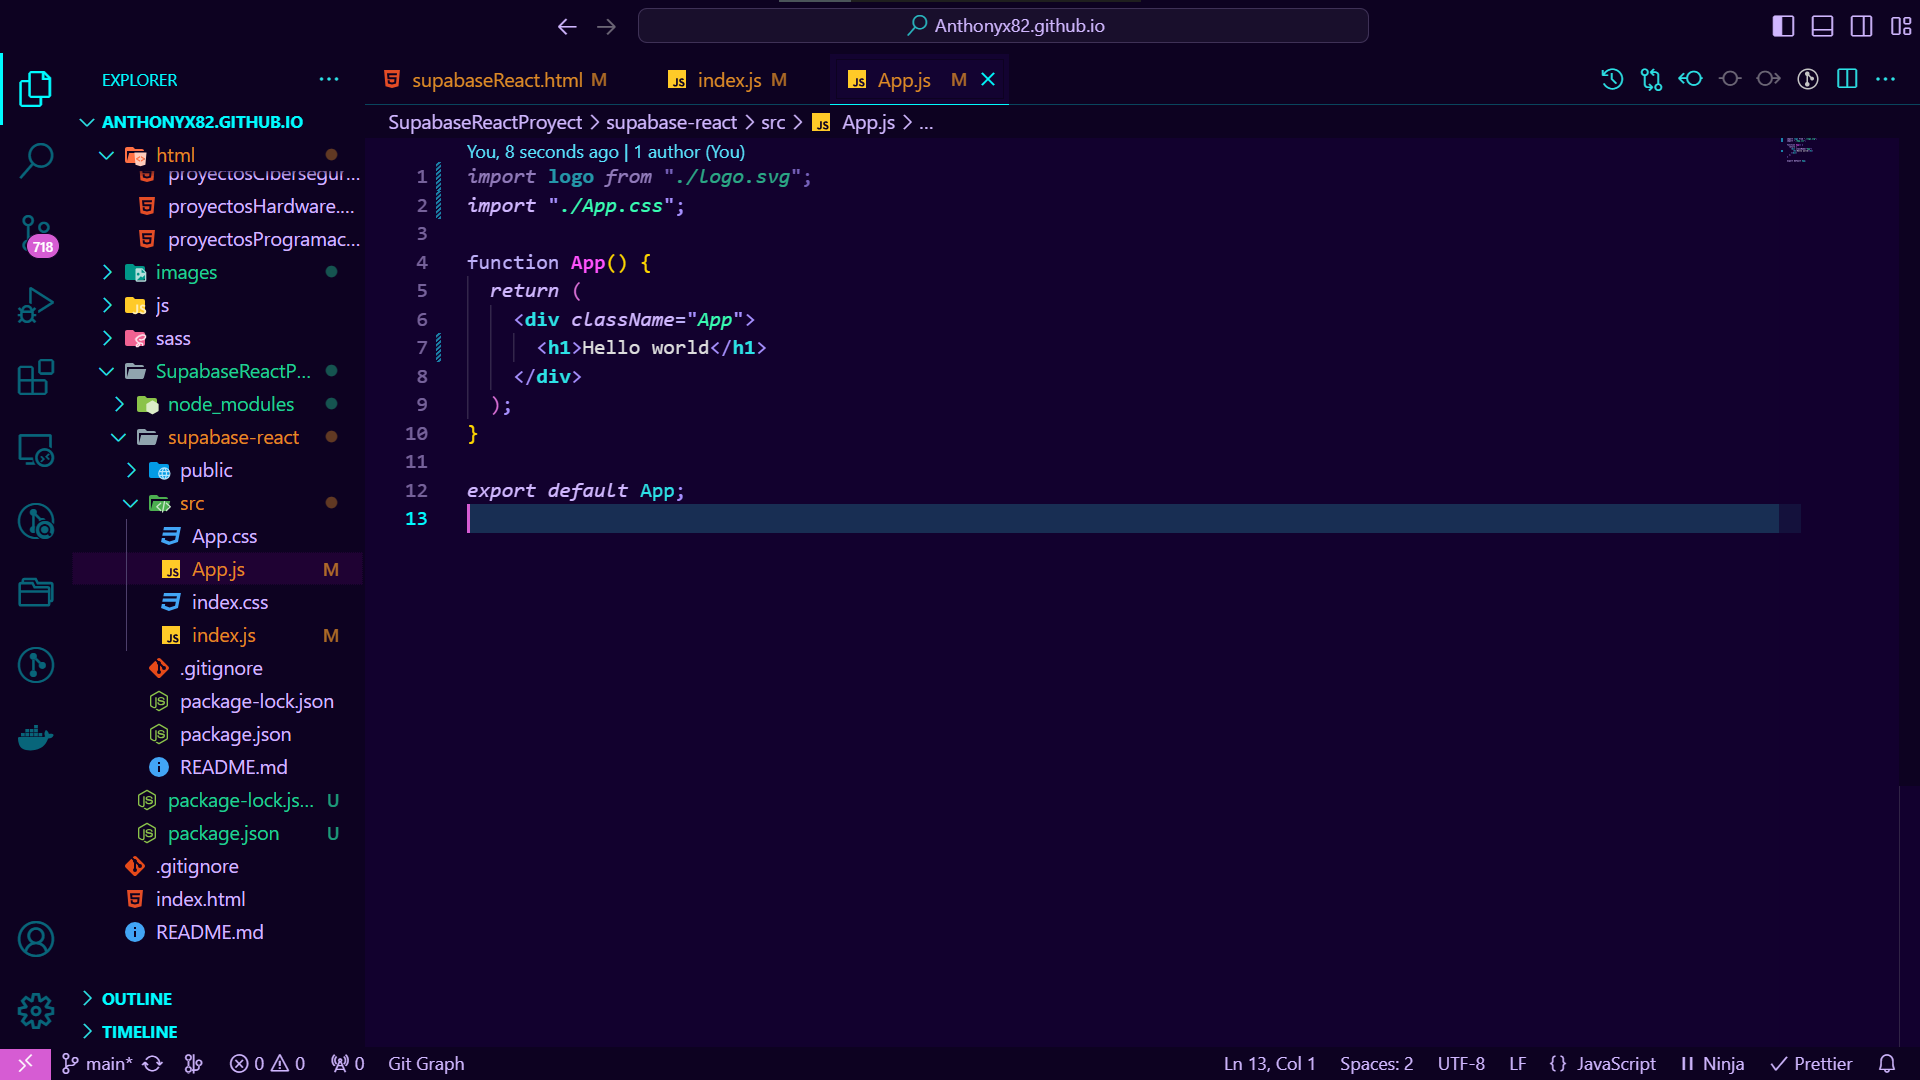
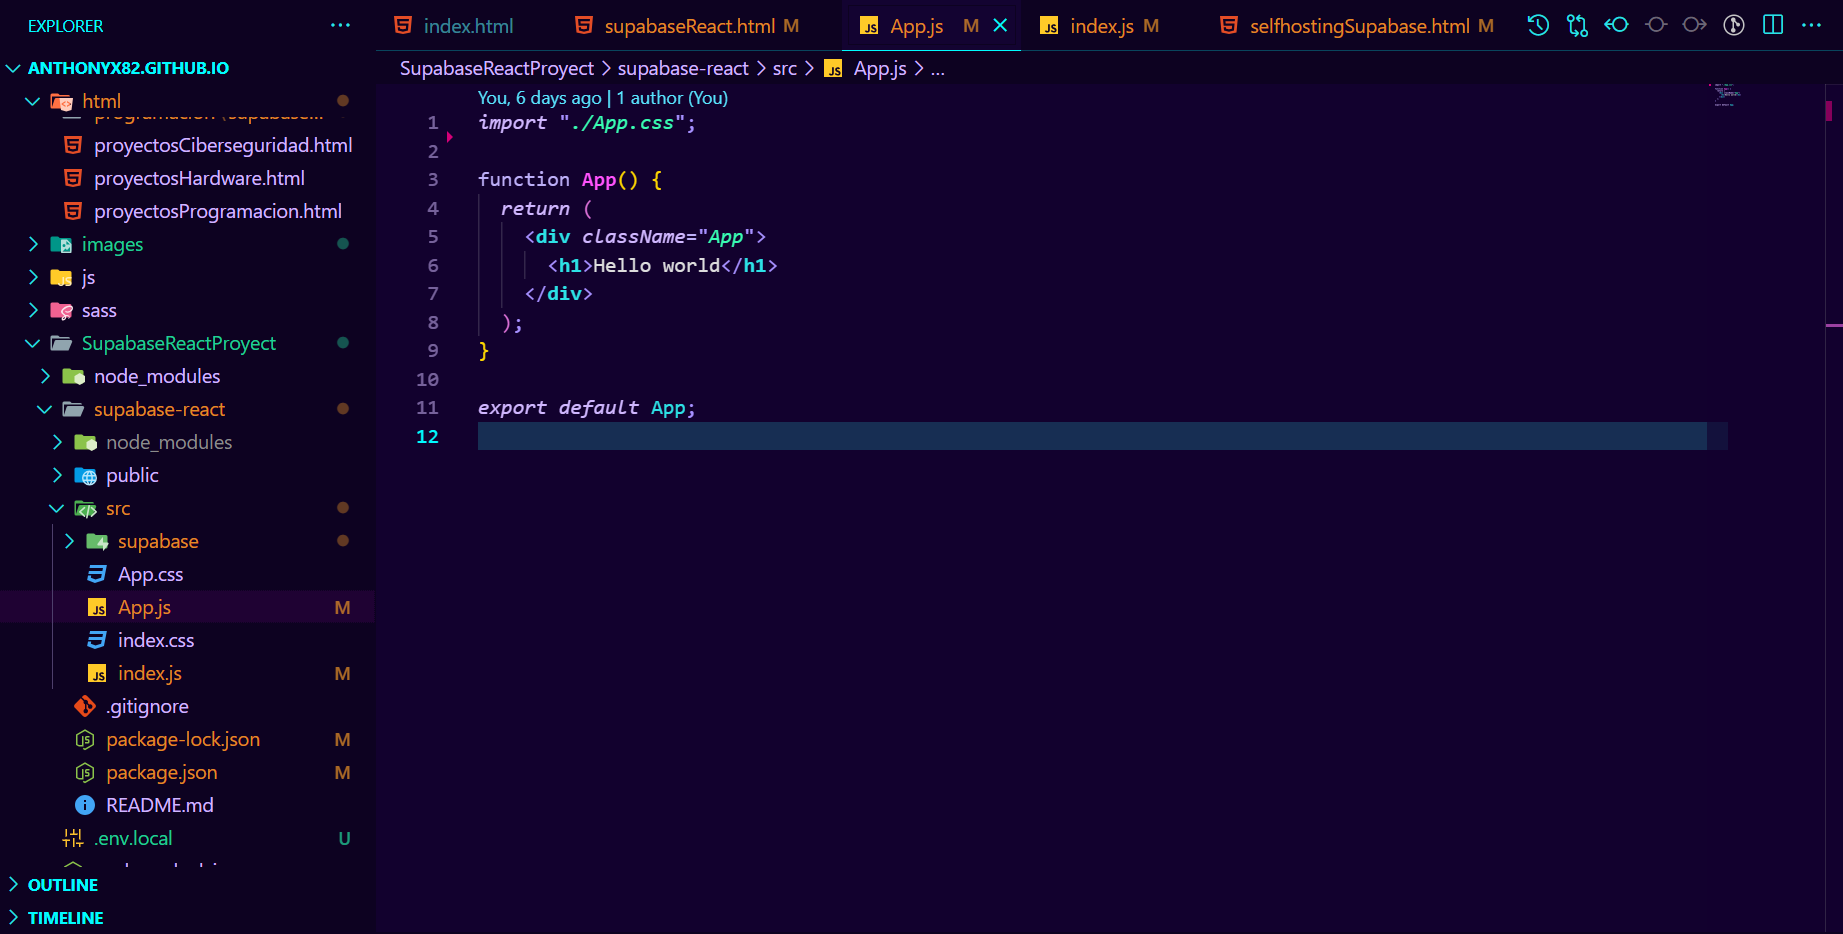
Empezamos la logica del proyecto

diff --git a/html/programacion/supabaseReact/supabaseReact.html b/html/programacion/supabaseReact/supabaseReact.html
@@ -112,16 +112,19 @@
                     </div>
                     <p class="lead text-muted text-justify">
                         Lo que vamos a hacer es utilizar supabase para tener un backend que vamos a poder utilziar con
-                        un frontend en react. Recuerda que podemos usar supabase de forma autohosteandolo nosotros
-                        mismos o desde la pagina web, en mi caso lo autohosteare pero si tu no quieres hacerlo el
-                        proceso es el mismo solo que nos ahorramos la parte. Si te interesa saber como autohostearlo
-                        aqui te dejo <a href="selfhostingSupabase.html" target="_blank" rel="noopener noreferrer"> mas
-                            informacion </a>
+                        un frontend en react. Recuerda que podemos usar supabase autohosteandolo nosotros
+                        mismos o desde la pagina web oficial dependiendo de los servidores de supabase, en mi caso lo
+                        autohosteare pero si tu no quieres hacerlo el proceso es el mismo solo que nos ahorramos la
+                        parte.
+                        Si te interesa saber como autohostearlo aqui te dejo <a href="selfhostingSupabase.html"
+                            target="_blank" rel="noopener noreferrer"> mas informacion </a>
                     </p>
                     <p class="lead text-muted text-justify">
-                        Vamos a desarrollar un pequeño ejemplo donde vamos a ir documentando el proceso para que
-                        cualquiera pueda desarrollarlo. Este consistira en un pequeño sistema de autenticacion de estilo
-                        magic link y un bloc de notas/tareas.
+                        A continuacion vamos a explicar como realizar el setup de nuestro proyecto con react y supabase.
+                        Al
+                        final para todos aquellos que quieran aprender como realizar un proyecto con funcionalidades
+                        reales y
+                        completas podran encontrar mas informacion sobre como hacerlo paso a paso
                     </p>
                     <p class="lead text-muted text-justify">
                         <strong>Paso 1: </strong> Creamos y configuramos el proyecto de supabase pulsando en "Start your
@@ -186,12 +189,52 @@
                     </div>
                     </p>
                     <p class="lead text-muted text-justify">
-                        <strong>Paso 8: </strong>
+                        <strong>Paso 8: </strong> Vamos a crear una carpeta que se va a encargar de llevar a cabo
+                        todas las operaciones del backend y lo primero que vamos a hacer va ser configurar la libreria
+                        de supabase
+                        Para esto primero vamos a crear el siguiente archivo donde importaremos la libreria de supabase
+                        y declararemos la conexion
                     <div style="text-align: center;">
-                        <img src="../../../images/project/supabseReact/7.png" alt="Captura de pantalla paso 7"
+                        <img src="../../../images/project/supabseReact/8.png" alt="Captura de pantalla paso 8"
                             style="max-width: 100%; height: auto; display: inline-block;">
                     </div>
                     </p>
+                    <p class="lead text-muted text-justify">
+                        <strong>Paso 9: </strong> Para declarar una conexion segura vamos a utilizar un fichero .env
+                        que nos ayude a mantener seguras las credenciales de la conexion
+                    <div style="text-align: center;">
+                        <img src="../../../images/project/supabseReact/9.png" alt="Captura de pantalla paso 9"
+                            style="max-width: 100%; height: auto; display: inline-block;">
+                    </div>
+                    </p>
+                    <p class="lead text-muted text-justify">
+                        <strong>Paso 10: </strong> Usamos las variables de entorno que hemos creado para declarar la
+                        conexion
+                    <div style="text-align: center;">
+                        <img src="../../../images/project/supabseReact/10.png" alt="Captura de pantalla paso 10"
+                            style="max-width: 100%; height: auto; display: inline-block;">
+                    </div>
+                    </p>
+                    <p class="lead text-muted text-justify">
+                        <strong>Paso 11: </strong> Ahora vamos a ejecutar el proyecto, importante tener instalador el
+                        paquete de ejecucion de scripts
+                        que lo instalaremos con el comando
+                        <code>npm install react-scripts</code>
+                        Y con el comando <code>npm start lo ejecutaremos</code>
+                    <div style="text-align: center;">
+                        <img src="../../../images/project/supabseReact/11.png" alt="Captura de pantalla paso 11"
+                            style="max-width: 100%; height: auto; display: inline-block;">
+                    </div>
+                    </p>
+                    <p class="lead text-muted text-justify">
+                        Con esto ya habriamos terminado el setup de nuestro proyecto y para todos aquellos que aun
+                        quieran
+                        seguir aprendiendo sobre react y supabase vamos a pasar a documentar un proyecto que hemos
+                        realizado
+                        sobre un block de tareas donde podras aprender operaciones crud, autenticación, y mucho mas
+                        sobre estas tecnologias
+                    </p>
+                    <a href="proyectoPasoaPaso.html" class="btn custom-btn custom-btn-bg custom-btn-link">!Proyecto¡</a>
                 </div>
             </div>
         </div>

diff --git a/html/programacion/supabaseReact/proyectoPasoaPaso.html b/html/programacion/supabaseReact/proyectoPasoaPaso.html
@@ -1,0 +1,105 @@
+<!doctype html>
+<html lang="en">
+
+<head>
+    <meta charset="utf-8">
+    <meta name="viewport" content="width=device-width, initial-scale=1, shrink-to-fit=no">
+    <meta name="description" content="">
+    <meta name="author" content="">
+
+    <title>Antonio Martin Sosa</title>
+
+    <link rel="stylesheet" href="../../../css/bootstrap.min.css">
+    <link rel="stylesheet" href="../../../css/unicons.css">
+    <link rel="stylesheet" href="../../../css/owl.carousel.min.css">
+    <link rel="stylesheet" href="../../../css/owl.theme.default.min.css">
+
+    <!-- FAVICON -->
+    <link rel="icon" href="../../../images/Yo/favicon.ico" type="image/x-icon">
+
+    <!-- MAIN STYLE -->
+    <link rel="stylesheet" href="../../../css/tooplate-style.css">
+</head>
+
+<body>
+
+    <!-- MENU -->
+    <nav class="navbar navbar-expand-sm navbar-light">
+        <div class="container">
+            <a class="navbar-brand" href="../../../index.html"><i class='uil uil-user'></i>Antonio Martin</a>
+
+            <button class="navbar-toggler" type="button" data-toggle="collapse" data-target="#navbarNav"
+                aria-controls="navbarNav" aria-expanded="false" aria-label="Toggle navigation">
+                <span class="navbar-toggler-icon"></span>
+                <span class="navbar-toggler-icon"></span>
+                <span class="navbar-toggler-icon"></span>
+            </button>
+
+            <div class="collapse navbar-collapse" id="navbarNav">
+                <ul class="navbar-nav mx-auto">
+                    <li class="nav-item">
+                        <a href="../../../index.html#about" class="nav-link"><span data-hover="About">Sobre
+                                Mi</span></a>
+                    </li>
+                    <li class="nav-item">
+                        <a href="../../../index.html#project" class="nav-link"><span
+                                data-hover="Projects">Proyectos</span></a>
+                    </li>
+                    <li class="nav-item">
+                        <a href="../../../index.html#resume" class="nav-link"><span
+                                data-hover="Resume">Resumen</span></a>
+                    </li>
+                    <li class="nav-item">
+                        <a href="../../../index.html#contact" class="nav-link"><span
+                                data-hover="Contact">Contactar</span></a>
+                    </li>
+                </ul>
+
+                <ul class="navbar-nav">
+                    <div class="color-mode">
+                        <i class="color-mode-icon"></i>
+                    </div>
+                </ul>
+            </div>
+        </div>
+    </nav>
+
+    <!-- FEATURES -->
+    <section class="resume py-5 d-lg-flex justify-content-center align-items-center" id="resume">
+        <div class="container">
+            <div class="row">
+                <div class="col-lg-10 col-md-10 mx-auto">
+                    <div class="text-center">
+                        <h2 class="mb-4">Descripcion del proyecto</h2>
+                    </div>
+                    <p>
+                        
+                    </p>
+                </div>
+            </div>
+    </section>
+
+    <!-- FOOTER -->
+    <footer class="footer py-5">
+        <div class="container">
+            <div class="row">
+                <div class="col-lg-12 col-12">
+                    <p class="copyright-text text-center">Curriculum diseñado y producido por Antonio Martin Sosa 2024
+                    </p>
+                </div>
+            </div>
+        </div>
+    </footer>
+
+    <script src="../../../js/jquery-3.3.1.min.js"></script>
+    <script src="../../../js/popper.min.js"></script>
+    <script src="../../../js/bootstrap.min.js"></script>
+    <script src="../../../js/Headroom.js"></script>
+    <script src="../../../js/jQuery.headroom.js"></script>
+    <script src="../../../js/owl.carousel.min.js"></script>
+    <script src="../../../js/smoothscroll.js"></script>
+    <script src="../../../js/custom.js"></script>
+
+</body>
+
+</html>

diff --git a/html/programacion/supabaseReact/selfhostingSupabase.html b/html/programacion/supabaseReact/selfhostingSupabase.html
@@ -126,17 +126,45 @@
                         <br>
                         <br>
                         <code>
-                            # Parar y borrar contenedores<br>
+                            # Parar contenedores<br>
                             docker compose down<br>
 
-                            # Recrear y encender contenedores<br>
+                            # Encender contenedores<br>
                             docker compose up -d<br>
                         </code>
+                    </p>
+                    <p class="lead text-muted text-justify">
+                        NOTA: tener en cuenta que antes de empezar a trabajar en nuestro proyecto tenemos que asignar
+                        un token de seguridad para la api y demas servicios, para ello vamos a editar el archivo .env que 
+                        hemos usado en el paso numero 3 y cambiaremos las siguientes variables:<br>
+                        <br>
+                        <code>
+                            JWT_SECRET<br>
+                            ANON_KEY<br>
+                            SERVICE_ROLE_KEY<br>
+                        </code>
+                        <br>
+                        El valor de estas variables va a ser el generado en la documentacion oficial donde explican como 
+                        <a target="_blank" rel="noopener noreferrer" href="https://supabase.com/docs/guides/self-hosting/docker#securing-your-services"> 
+                        autohostear nuestro propio supabase</a> tendremos que escribir nosotros un JWT secreto y darle a generate JWT
+                        tanto para crear una anon key como una service key como esto es algo privado no puedo enseñarlo pero 
+                        siguiendo los pasos es muy sencillo conseguirlo
+                        <br>
+                        <br>
+                        <img src="../../../images/project/supabseReact/0.2.jpg" alt="Captura de pantalla paso 2"
+                            style="max-width: 100%; height: auto; display: inline-block;">
+                            <br>
+                            <br>
+                        <img src="../../../images/project/supabseReact/0.3.jpg" alt="Captura de pantalla paso 2"
+                            style="max-width: 100%; height: auto; display: inline-block;">
+                            <br>
+                            <br>
+                        Por ultimo reiniciamos el servidor con el comando indicado en el paso 3 y ya lo tenemos configurado
                     </p>
                     </p>
                     <p class="lead text-muted text-justify">
                         <strong>IMPORTANTE: </strong>Normalmente siempre se recomienda leer la documentacion oficial
-                        este caso no es que se recomiendo sino que es practicamente obligatorio devido a la buenisima
+                        este caso no es que se recomiende sino que es practicamente obligatorio devido a la buenisima
                         claridad y sencillez de la documentacion de supabase, <a target="_blank"
                             rel="noopener noreferrer" href="https://supabase.com/docs/guides/self-hosting"> pulsa
                             aqui</a> y podras ver la documentacion sobre como puedes autohostear supabase

diff --git a/SupabaseReactProyect/supabase-react/src/pages/Login.js b/SupabaseReactProyect/supabase-react/src/pages/Login.js
@@ -1,0 +1,33 @@
+import { useState } from "react";
+import { supabase } from "../supabase/client";
+
+function Login() {
+  const [email, setEmail] = useState("");
+
+  const handleSubmit = async (e) => {
+    e.preventDefault();
+    try {
+      await supabase.auth.signInWithOtp({
+        email: email,
+      });
+    } catch (error) {
+      console.error(error);
+    }
+  };
+
+  return (
+    <div>
+      <form onSubmit={handleSubmit}>
+        <input
+          type="email"
+          name="email"
+          placeholder="tuemail@email.com"
+          onChange={(e) => setEmail(e.target.value)}
+        />
+        <button>send</button>
+      </form>
+    </div>
+  );
+}
+
+export default Login;

diff --git a/SupabaseReactProyect/supabase-react/src/index.js b/SupabaseReactProyect/supabase-react/src/index.js
@@ -2,7 +2,6 @@ import React from "react";
 import ReactDOM from "react-dom/client";
 import "./index.css";
 import App from "./App";
-import reportWebVitals from "./reportWebVitals";
 
 const root = ReactDOM.createRoot(document.getElementById("root"));
 root.render(

diff --git a/SupabaseReactProyect/supabase-react/src/supabase/client.js b/SupabaseReactProyect/supabase-react/src/supabase/client.js
@@ -1,0 +1,6 @@
+import { createClient } from '@supabase/supabase-js'
+
+const supabaseUrl = process.env.REACT_APP_SUPABASE_URL
+const supabaseAnonKey = process.env.REACT_APP_ANON_KEY
+
+export const supabase = createClient(supabaseUrl, supabaseAnonKey)

diff --git a/SupabaseReactProyect/supabase-react/src/App.js b/SupabaseReactProyect/supabase-react/src/App.js
@@ -1,10 +1,10 @@
-import logo from "./logo.svg";
 import "./App.css";
+import Login from "./pages/Login";
 
 function App() {
   return (
     <div className="App">
-      <h1>Hello world</h1>
+      <Login />
     </div>
   );
 }
